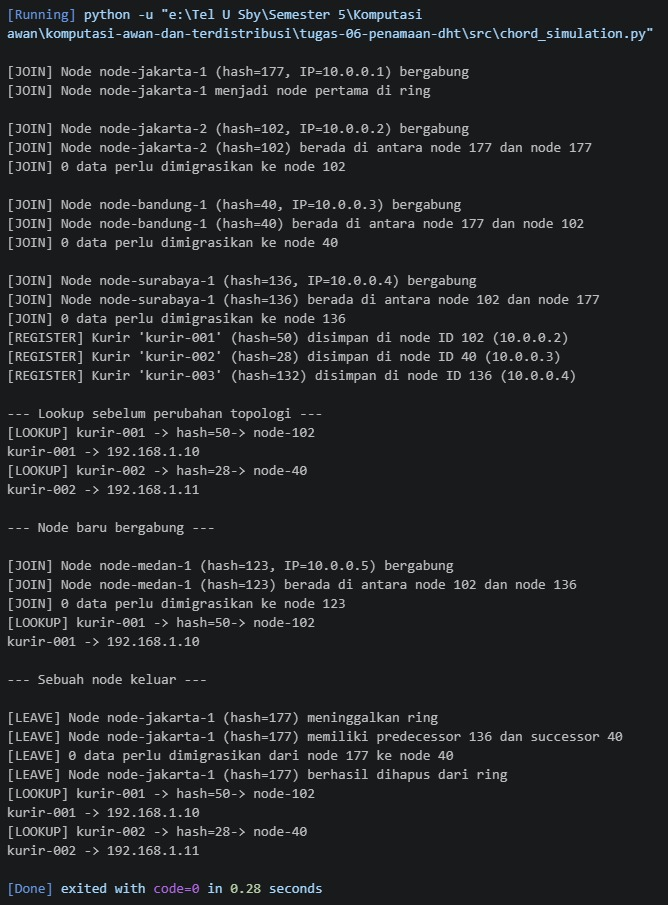
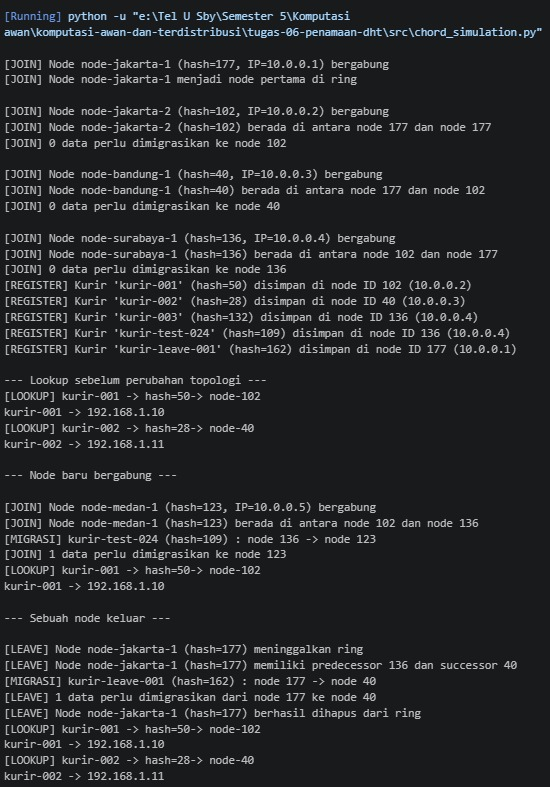
mengisi jurnal.md

Changed region(s): [[0.0, 0.0, 0.9891, 1.0], [0.7418, 0.2135, 0.8655, 0.2745]]

diff --git a/tugas-06-penamaan-dht/JURNAL.md b/tugas-06-penamaan-dht/JURNAL.md
@@ -1,12 +1,30 @@
 # Jurnal Proses — Tugas 6
 
 ## Implementasi find_successor
-- Kesalahan pertama yang ditemui (mis. lupa wrap-around di ring): ...
+- Kesalahan pertama yang ditemui (mis. lupa wrap-around di ring): 
+1. NameError: self/node tidak dikenali, karena Badan method join()/leave() indentasinya sejajar dengan def, bukan masuk 1 level lagi
+2. find_successor() tidak bisa dipanggil method lain	
+Tertulis ter-nested di dalam leave(), bukan method class yang sejajar
+3. Perlu validasi logika migrasi data	Interval migrasi (predecessor, node_id] sulit diverifikasi hanya dari membaca kode
 - Cara memperbaikinya: ...
-
+1. Perbaiki indentasi: badan method harus 8 spasi (2 level dari class)
+2. Pindahkan ke level indentasi yang sama dengan method lain (4 spasi langsung di bawah class)
+3. Uji manual dengan skenario tambahan (4 node + beberapa kurir + 1 node baru) untuk memastikan hanya kurir di interval yang tepat yang termigrasi
 ## Skenario join/leave
-- Hasil sebelum & sesudah node baru bergabung: ...
-- Hasil sebelum & sesudah node keluar: ...
+- Hasil sebelum & sesudah node baru bergabung:
+Sebelum: urutan node di ring adalah 40 → 102 → 136 → 177 → (kembali ke 40). kurir-001 (hash=50) ditanggung oleh node 102, karena 102 adalah hash node terkecil yang ≥ 50.
+
+Sesudah node-medan-1 (id=123) bergabung: 
+urutan ring menjadi 40 → 102 → 123 → 136 → 177. Node 123 kini bertanggung jawab atas interval (102, 123] — yaitu hash 103 sampai 123. Karena hash kurir-001 (=50) tidak berada dalam interval tersebut, tanggung jawabnya tetap di node 102, sehingga tidak ada migrasi dan lookup kurir-001 tetap mengembalikan 192.168.1.10.
+
+Ini membuktikan logika migrasi bekerja dengan benar: node baru hanya mengambil alih data yang memang jatuh di rentang tanggung jawabnya, bukan mengambil semua data secara sembarangan.
+
+- Hasil sebelum & sesudah node keluar:
+Sebelum: urutan ring adalah 40 → 102 → 123 → 136 → 177. Node 177 bertanggung jawab atas interval (136, 177], namun tidak ada satupun kurir (hash 50, 28, 132) yang berada di rentang tersebut — artinya node 177 tidak memegang data kurir apa pun.
+
+Sesudah node-jakarta-1 (id=177) keluar: successor-nya adalah node 40 (karena ring wrap-around), sehingga seharusnya data node 177 (jika ada) dipindah ke node 40. Karena memang tidak ada data yang dipegang node 177, log menunjukkan "Total data dimigrasi: 0" — ini valid, bukan bug. Lookup kurir-001 → 192.168.1.10 dan kurir-002 → 192.168.1.11 tetap berhasil ditemukan tanpa perubahan, karena keduanya ditanggung oleh node lain (102 dan 40) yang tidak terganggu oleh keluarnya node 177.
+
+Ini menunjukkan bahwa leave() sudah benar menghitung interval tanggung jawab node yang keluar sebelum memindahkan data, dan tidak memaksa migrasi pada data yang sebenarnya tidak terpengaruh.
 
 ## Log Penggunaan AI (Level 2)
 
@@ -14,4 +32,4 @@
 
 | Tanggal | Tool AI | Prompt yang diberikan | Ringkasan saran/ide AI | Bagaimana diolah jadi tulisan/kode sendiri |
 |---|---|---|---|---|
-| ... | ... | ... | ... | ... |
+| 27 Oktober 2026 | ChatGPT | Bantuan menyusun jurnal Tugas 6 berdasarkan kode Chord DHT | Mendapatkan arahan mengenai struktur jurnal dan aspek yang perlu diperiksa | [Jelaskan secara jujur bagaimana bantuan digunakan dan bagaimana kelompok memverifikasi hasilnya.] |
